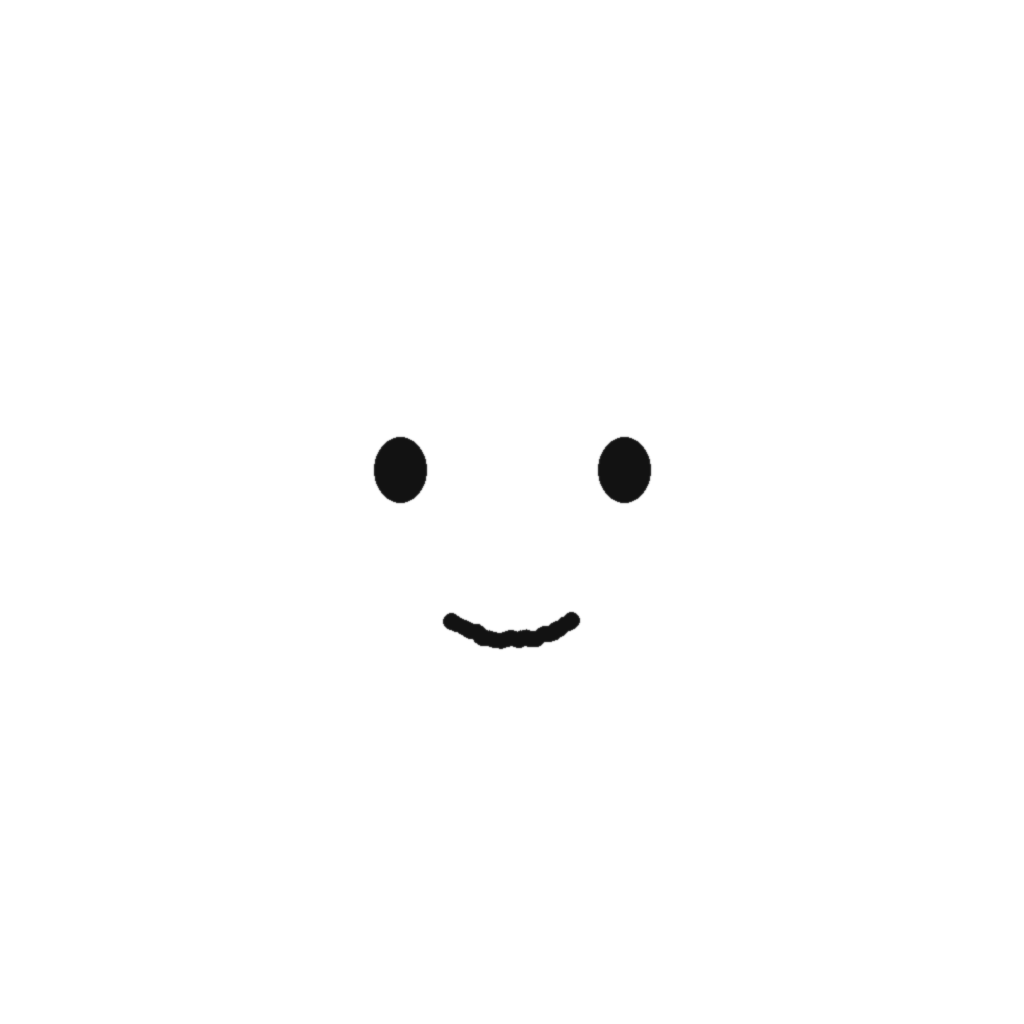
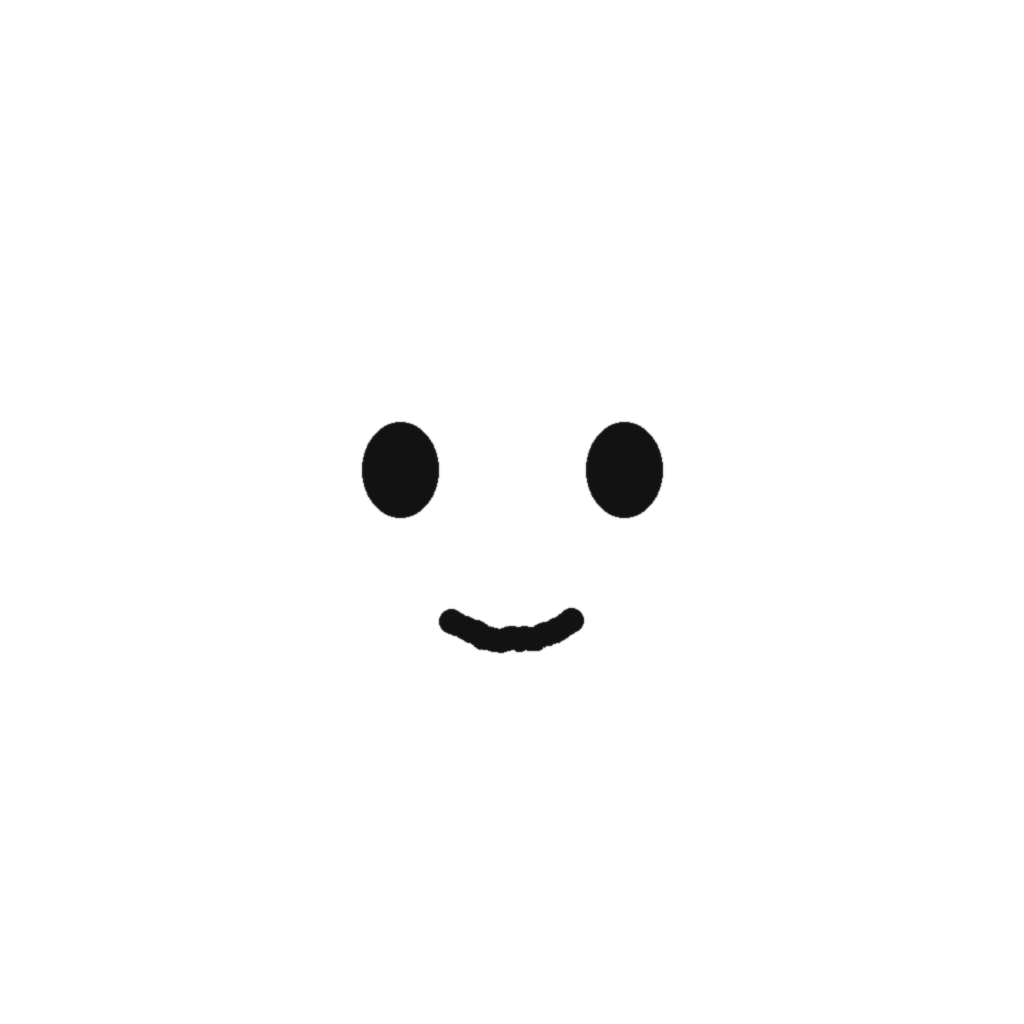
blender taxshot: chair flip, bigger ink faces, thicker outline, closer cameras

Changed region(s): [[0.5625, 0.4062, 0.6562, 0.5312], [0.3438, 0.4062, 0.4375, 0.5312], [0.4062, 0.5938, 0.5938, 0.6562]]

diff --git a/blender/taxshot.py b/blender/taxshot.py
@@ -206,7 +206,7 @@ for z in (0.9, 1.65, 2.4):
 sky = flat("sky", (0.7, 0.8, 0.9))
 sky.node_tree.nodes["Principled BSDF"].inputs["Emission Color"].default_value = (0.75, 0.85, 1.0, 1)
 sky.node_tree.nodes["Principled BSDF"].inputs["Emission Strength"].default_value = 2.5
-plane("sky", (-6.5, 0, 1.6), (6, 4), (0, math.radians(90), 0), sky)
+plane("sky", (-6.5, 0, 1.6), (26, 10), (0, math.radians(90), 0), sky)
 # skirting + chalkboard on the back wall, left of Dave
 box("skirt", (0, 3.0, 0.06), (9, 0.04, 0.12), trim_m)
 plane("board", (-1.3, 3.015, 1.55), (2.8, 1.25), (math.radians(90), 0, 0), board_m)
@@ -218,7 +218,7 @@ box("chalk_tray", (-1.3, 2.95, 0.89), (2.8, 0.1, 0.03), trim_m)
 
 # ---------------------------------------------------------------- furniture (real CC0 models)
 chair = import_model("SchoolChair_01")
-chair.rotation_euler.z = math.radians(90) - back_dir(chair)  # backrest → +Y (away from camera)
+chair.rotation_euler.z = math.radians(-90) - back_dir(chair)  # flip: preview showed the backrest toward camera
 desk = import_model("SchoolDesk_01", (0, -0.62, 0))
 dlo, dhi = bbox(desk)
 if (dhi.x - dlo.x) < (dhi.y - dlo.y):
@@ -317,7 +317,7 @@ for s in "lr":
 # ink faces: a shrink-wrapped decal per expression, hidden except while active
 faces = {}
 for nm in ["neutral", "shock", "think", "spiral", "panic"]:
-    bpy.ops.mesh.primitive_plane_add(size=0.34, location=(0, -0.24, 0), rotation=(math.radians(90), 0, 0))
+    bpy.ops.mesh.primitive_plane_add(size=0.44, location=(0, -0.26, 0.01), rotation=(math.radians(90), 0, 0))
     o = bpy.context.object
     o.name = f"face_{nm}"
     bpy.ops.object.mode_set(mode="EDIT")
@@ -348,8 +348,8 @@ form.parent = root
 # ---------------------------------------------------------------- poses (local to root; Dave faces -Y)
 POSES = {
     "hold": dict(el=(-0.15, -0.1, 0.17), hl=(-0.08, -0.3, 0.27), er=(0.15, -0.1, 0.17), hr=(0.08, -0.3, 0.27), form=((0, -0.33, 0.3), (math.radians(62), 0, 0)), head=(0, 0, 0)),
-    "look": dict(el=(-0.15, -0.1, 0.17), hl=(-0.09, -0.29, 0.25), er=(0.15, -0.1, 0.17), hr=(0.07, -0.29, 0.25), form=((-0.01, -0.32, 0.28), (math.radians(58), 0, 0)), head=(math.radians(-6), math.radians(8), math.radians(-62))),
-    "panic": dict(el=(-0.22, -0.08, 0.36), hl=(-0.09, -0.27, 0.56), er=(0.22, -0.08, 0.36), hr=(0.09, -0.27, 0.56), form=((0, -0.3, 0.6), (math.radians(80), 0, 0)), head=(math.radians(8), 0, 0)),
+    "look": dict(el=(-0.15, -0.1, 0.17), hl=(-0.09, -0.29, 0.25), er=(0.15, -0.1, 0.17), hr=(0.07, -0.29, 0.25), form=((-0.01, -0.32, 0.28), (math.radians(58), 0, 0)), head=(math.radians(-4), math.radians(6), math.radians(-32))),
+    "panic": dict(el=(-0.24, -0.1, 0.3), hl=(-0.2, -0.3, 0.44), er=(0.24, -0.1, 0.3), hr=(0.02, -0.32, 0.4), form=((-0.1, -0.34, 0.42), (math.radians(78), 0, math.radians(18))), head=(math.radians(8), 0, 0)),
 }
 
 
@@ -419,7 +419,7 @@ for fc in form.animation_data.action.fcurves:
 # ---------------------------------------------------------------- outline: Freestyle on Dave only
 sc.render.use_freestyle = True
 sc.render.line_thickness_mode = "ABSOLUTE"
-sc.render.line_thickness = 3.2 * H / 1080
+sc.render.line_thickness = 4.6 * H / 1080
 fs = bpy.context.view_layer.freestyle_settings
 for ls in list(fs.linesets):
     fs.linesets.remove(ls)
@@ -427,7 +427,7 @@ ls = fs.linesets.new("dave")
 ls.select_by_collection, ls.collection = True, dave
 ls.select_silhouette, ls.select_border, ls.select_crease = True, True, False
 ls.linestyle.color = (0.04, 0.04, 0.04)
-ls.linestyle.thickness = 3.2 * H / 1080
+ls.linestyle.thickness = 4.6 * H / 1080
 fs.use_culling = False
 ls.select_by_face_marks = False
 excl = bpy.data.collections.new("no_line")
@@ -470,9 +470,9 @@ def cam(name, loc, target, lens):
     return c
 
 
-wide = cam("wide", (2.25, -4.3, 1.0), (-0.35, 0.5, 0.95), 26)
-close = cam("close", (0.7, -1.55, 1.08), (-0.25, 0.4, 1.02), 38)
-wide2 = cam("wide2", (2.25, -4.3, 1.0), (-0.35, 0.5, 0.95), 26)
+wide = cam("wide", (1.45, -2.75, 0.95), (-0.15, 0.25, 1.0), 24)
+close = cam("close", (0.55, -1.3, 1.12), (-0.2, 0.3, 1.1), 34)
+wide2 = cam("wide2", (1.45, -2.75, 0.95), (-0.15, 0.25, 1.0), 24)
 r_end = wide2.rotation_euler.copy()
 wide2.rotation_euler = (r_end.x - 0.03, r_end.y, r_end.z + math.radians(16))
 wide2.keyframe_insert("rotation_euler", frame=79.5)

diff --git a/blender/make_tex.py b/blender/make_tex.py
@@ -15,7 +15,7 @@ def wob(pts, amp=3, seed=1):
     return [(x + r.uniform(-amp, amp), y + r.uniform(-amp, amp)) for x, y in pts]
 
 
-def stroke(d, pts, w=16, seed=1):
+def stroke(d, pts, w=24, seed=1):
     pts = wob(pts, 2.2, seed)
     d.line(pts, fill=INK, width=w, joint="curve")
     for p in (pts[0], pts[-1]):
@@ -26,12 +26,12 @@ def arc(cx, cy, rx, ry, a0, a1, n=24):
     return [(cx + rx * math.cos(math.radians(a)), cy + ry * math.sin(math.radians(a))) for a in [a0 + (a1 - a0) * i / n for i in range(n + 1)]]
 
 
-def eye(d, cx, cy, r=26, look=(0, 0)):
+def eye(d, cx, cy, r=38, look=(0, 0)):
     d.ellipse([cx - r + look[0], cy - r * 1.25 + look[1], cx + r + look[0], cy + r * 1.25 + look[1]], fill=INK)
 
 
-def big_eye(d, cx, cy, r=60, look=(0, 0), pupil=18):
-    d.ellipse([cx - r, cy - r * 1.15, cx + r, cy + r * 1.15], outline=INK, width=12, fill=(255, 255, 255, 255))
+def big_eye(d, cx, cy, r=72, look=(0, 0), pupil=24):
+    d.ellipse([cx - r, cy - r * 1.15, cx + r, cy + r * 1.15], outline=INK, width=18, fill=(255, 255, 255, 255))
     d.ellipse([cx - pupil + look[0], cy - pupil + look[1], cx + pupil + look[0], cy + pupil + look[1]], fill=INK)
 
 
